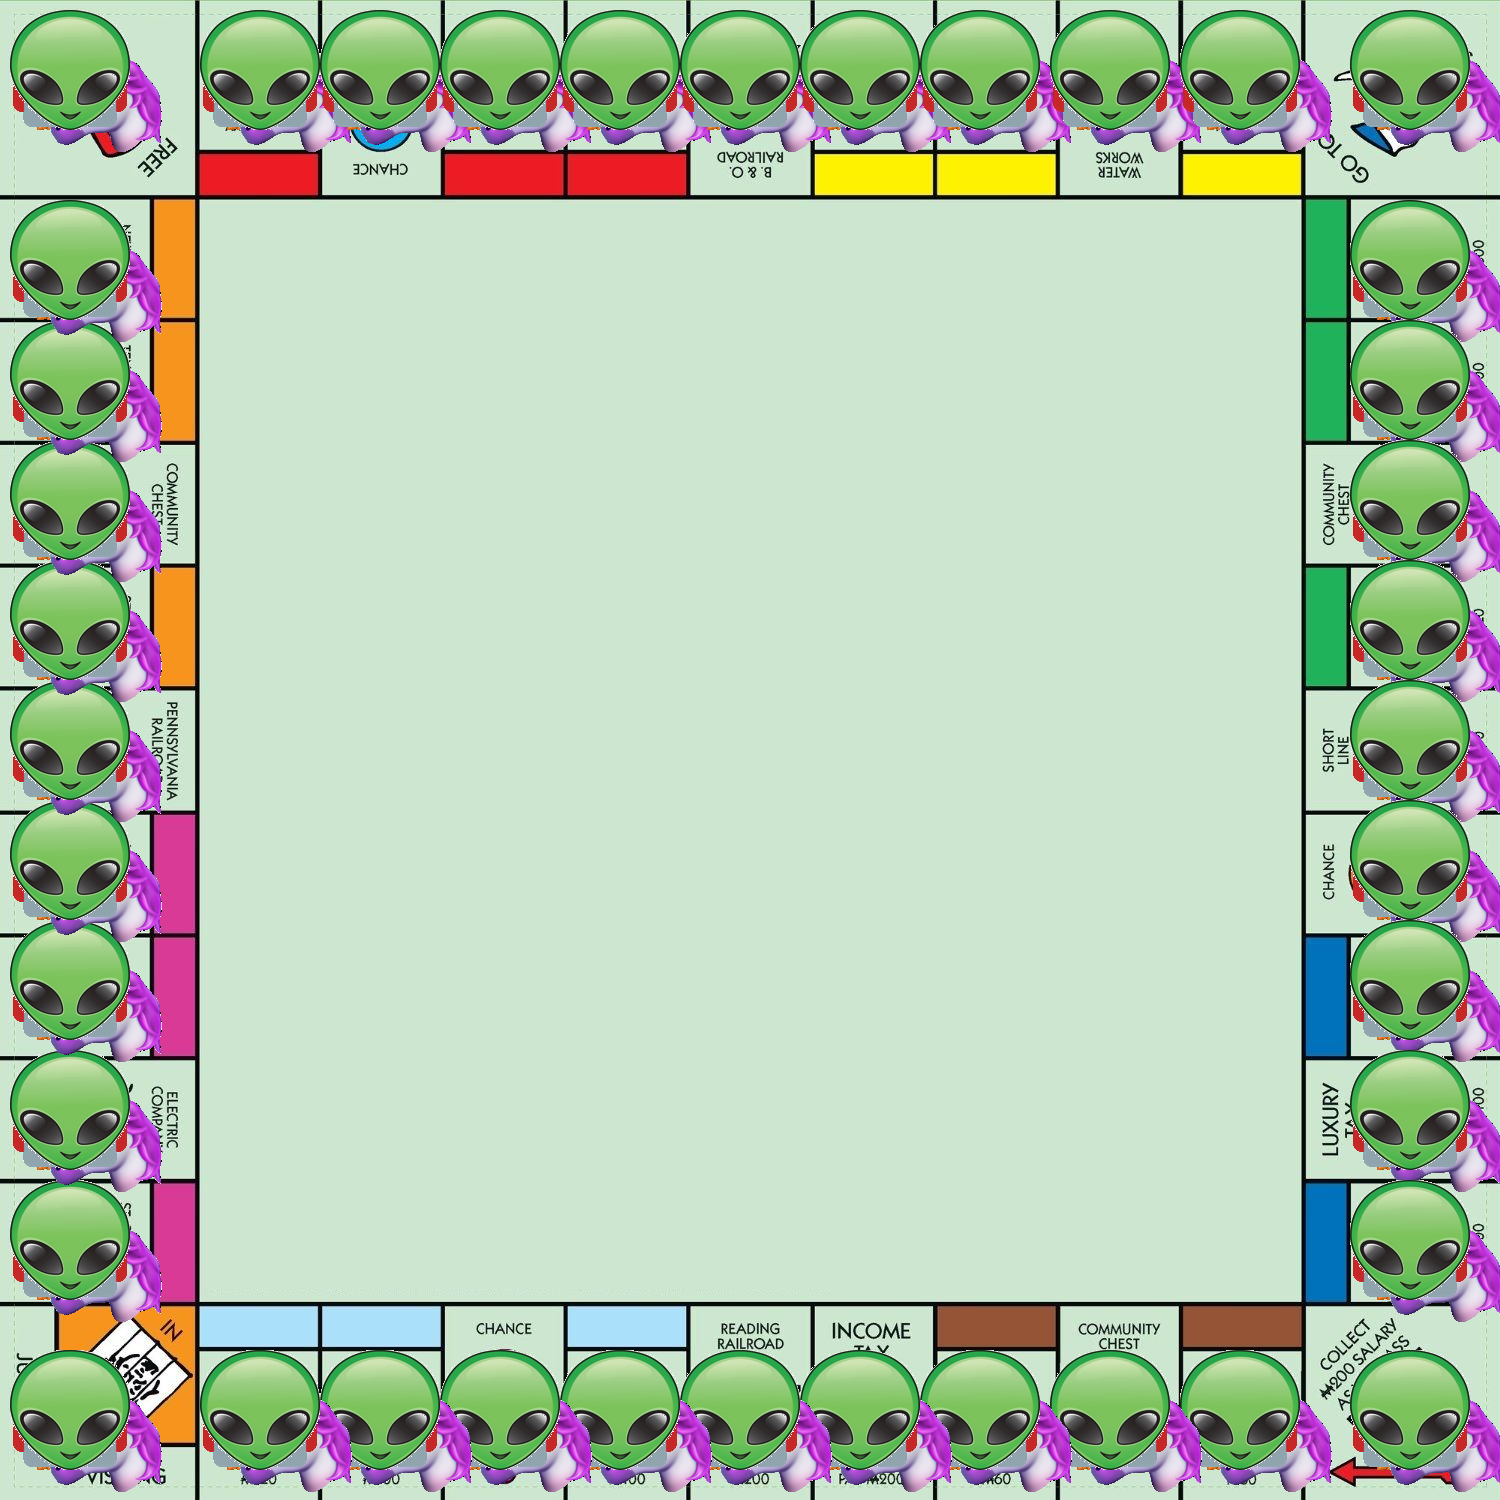
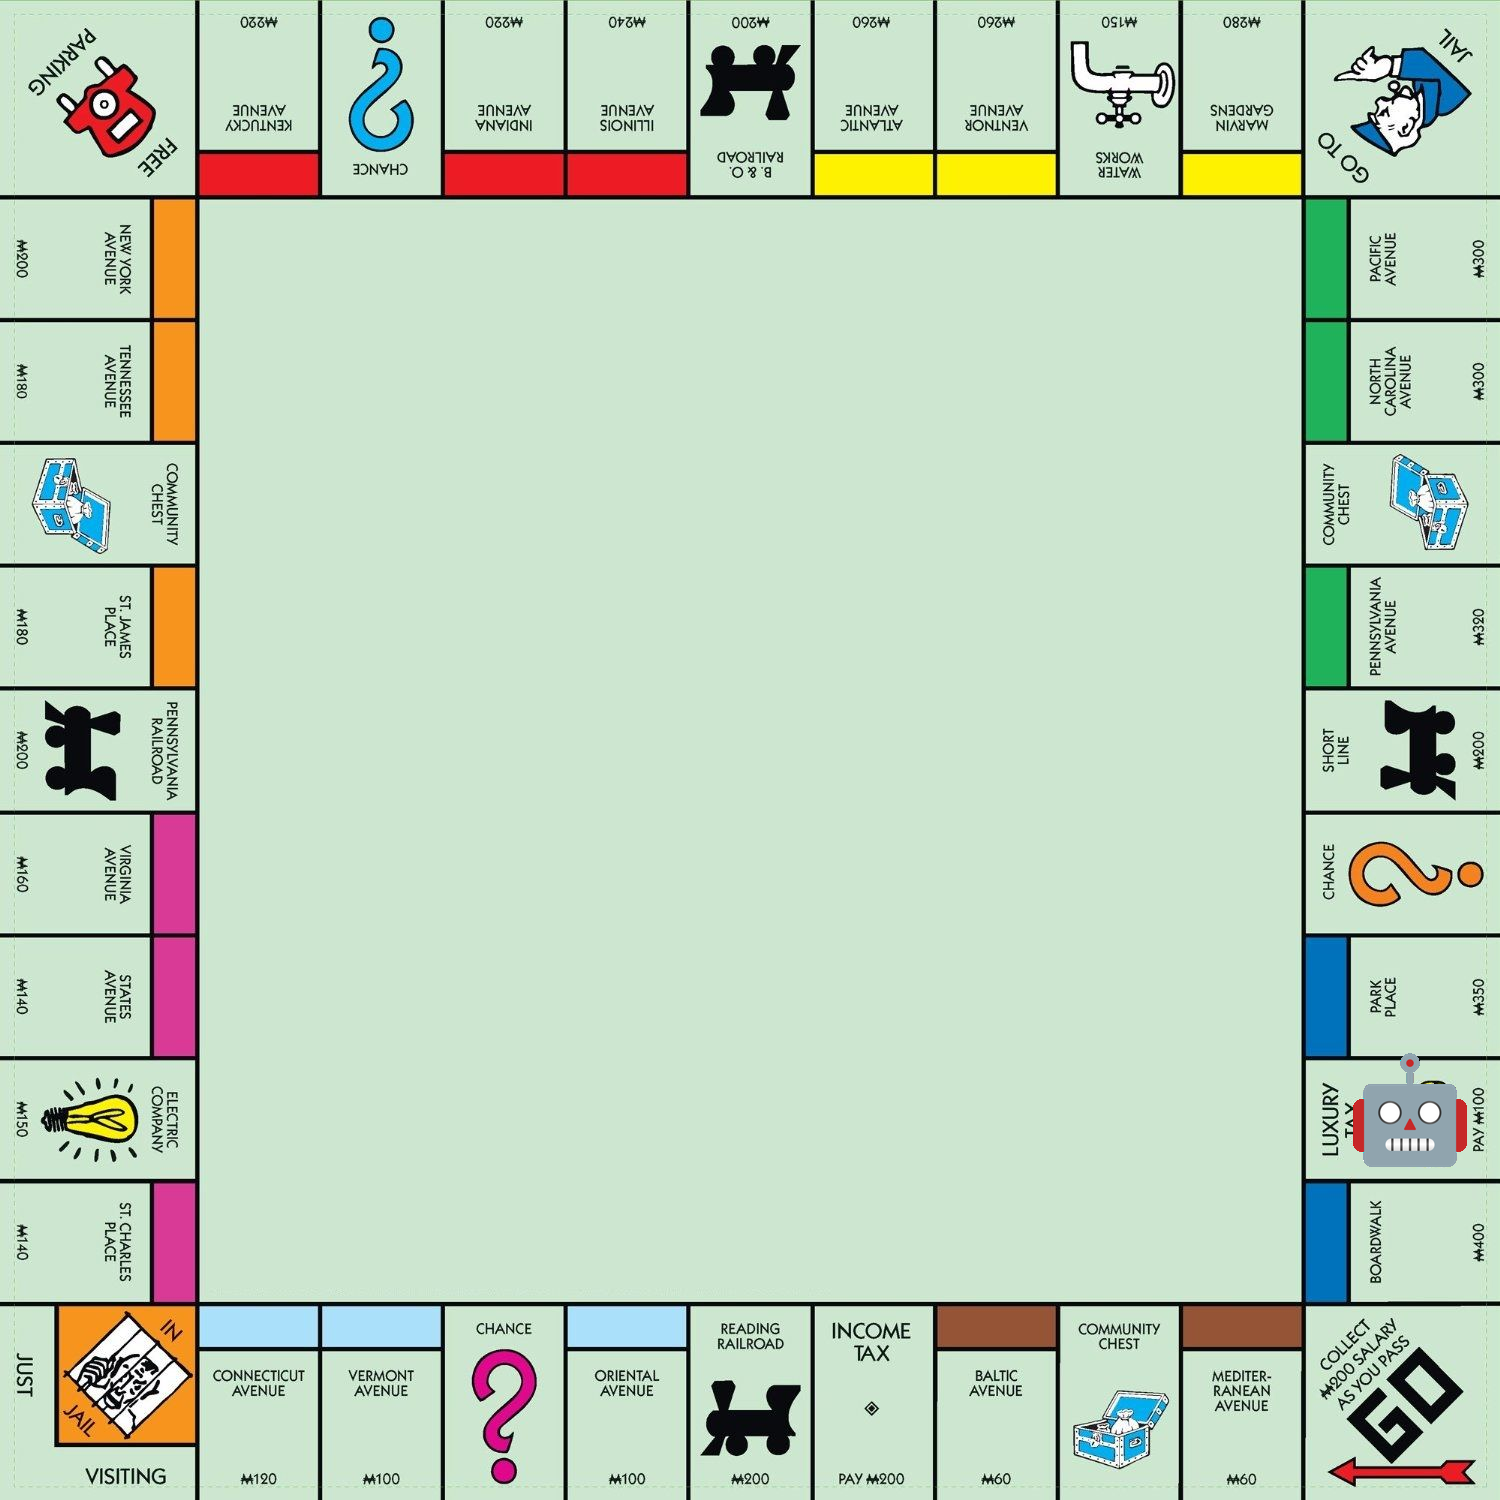
Getting there

Changed region(s): [[0.0, 0.0, 1.0, 1.0]]

diff --git a/imager.py b/imager.py
@@ -12,52 +12,65 @@ positions = [(1350,1350), (1180,1350), (1050,1350), (920,1350), (800, 1350), (68
 ]
 
 class Imager:
-    def __init__(self, num_players, names, symbols) -> None:
+    def __init__(self) -> None:
         
-        peng = Image.open('images/penguin.webp', 'r')
-        peng = peng.resize((120,120))
-        pe = np.array(peng)
+        self.peng = Image.open('images/penguin.webp', 'r')
+        self.peng = self.peng.resize((120,120))
+        pe = np.array(self.peng)
         redp = np.all(pe==[0,0,0,0], axis=-1)
 
-        unicorn = Image.open('images/unicorn.png', 'r')
-        unicorn = unicorn.resize((180,180))
-        uni = np.array(unicorn)
+        self.unicorn = Image.open('images/unicorn.png', 'r')
+        selfunicorn = self.unicorn.resize((180,180))
+        uni = np.array(self.unicorn)
         redu = np.all(uni==[0,0,0,0], axis=-1)
 
-        robot = Image.open('images/robot.png', 'r')
-        robot = robot.resize((120,120))
-        ro = np.array(robot)
+        self.robot = Image.open('images/robot.png', 'r')
+        self.robot = self.robot.resize((120,120))
+        ro = np.array(self.robot)
         redr = np.all(ro==[0,0,0,0], axis=-1)
 
-        alien = Image.open('images/alien.jpg', 'r')
-        alien = alien.resize((120,120))
-        al = np.array(alien)
+        self.alien = Image.open('images/alien.jpg', 'r')
+        self.alien = self.alien.resize((120,120))
+        al = np.array(self.alien)
         reda = np.all(al==[255,255,255], axis=-1)
 
 
         # for i in range(num_players):
         #     self.players
         # Convert reds back into PIL Image to use as alpha mask
-        pen_alpha = Image.fromarray(~redp)
-        uni_alpha = Image.fromarray(~redu)
-        rob_alpha = Image.fromarray(~redr)
-        trex_alpha = Image.fromarray(~reda)
+        self.pen_alpha = Image.fromarray(~redp)
+        self.uni_alpha = Image.fromarray(~redu)
+        self.rob_alpha = Image.fromarray(~redr)
+        self.trex_alpha = Image.fromarray(~reda)
 
         # Paste "rm" over "formation" with alpha as transparency mask
 
-        background = Image.open('images/monopoly.jpg', 'r')
+        
 
 
-        background.paste(peng, positions[0], pen_alpha)
-        background.paste(unicorn, positions[4], uni_alpha)
-        background.paste(robot, positions[8], rob_alpha)
-        background.paste(alien, positions[18], trex_alpha)
+        # background.paste(peng, positions[0], pen_alpha)
+        # background.paste(unicorn, positions[4], uni_alpha)
+        # background.paste(robot, positions[8], rob_alpha)
+        # background.paste(alien, positions[18], trex_alpha)
 
         # background.show()
         # background.save('out.png')
     
-    def creatBoard(self, symbols, pos):
-        for i in range(len(symbols)):
-            self.createPlayer(symbols[i], pos[i])
+    def creatBoard(self, players):
+        background = Image.open('images/monopoly.jpg', 'r')
+        # print(players[0].symbol)
+        for i in players:
+            if i.symbol == 'penguin':
+                background.paste(self.peng, positions[i.location], self.pen_alpha)
+            elif i.symbol == 'unicorn':
+                background.paste(self.unicorn, positions[i.location], self.uni_alpha)
+            elif i.symbol == 'robot':
+                background.paste(self.robot, positions[i.location], self.rob_alpha)
+            elif i.symbol == 'alien':
+                background.paste(self.alien, positions[i.location], self.trex_alpha)
+            
+            background.save('images/out.png')
+
+        
 
 # imager = Imager(3, [], [])

diff --git a/bot.py b/bot.py
@@ -79,12 +79,14 @@ async def start(ctx):
 @client.command(pass_context=True)
 async def turn(ctx):
     username = ctx.message.author.name
-    if(username != monopoly.players[monopoly.turn-1].name):
-        await ctx.send(f"It's {monopoly.players[monopoly.turn].name}'s turn")
-        return None
-    await ctx.send(file=discord.File('images/out.png'))
-    await ctx.send(monopoly.doTurn()[0])
+
+    # print(monopoly.turn)
+    # if(username != monopoly.players[].name):
+    #     await ctx.send(f"It's {monopoly.players[monopoly.turn].name}'s turn")
+    #     return None
     
+    await ctx.send(monopoly.doTurn()[0])
+    await ctx.send(file=discord.File('images/out.png'))
     
 # @client.command()
 # async def epic(ctx):

diff --git a/monopoly.py b/monopoly.py
@@ -19,17 +19,19 @@ class Monopoly():
         
         roll = self.rollDie()
 
-        if self.turn == self.numPlayers:
+        if self.turn == self.numPlayers -1:
             self.turn = 0
         else:
             self.turn +=1
 
+        print(t,"\n\n\n\n")
         self.players[t].move(roll)
         loc = self.players[t].location
         if loc >= 40:
             self.players[t].location = loc - 40
             loc -= 40
 
+        self.board.createBoard(self.players)
         outString = f"It's player {self.players[t].name}'s turn and they roll a {roll}! They landed on {self.board.getLocation(loc)['name']}"
         return [outString, self.board.getLocation(loc)]
     

diff --git a/player.py b/player.py
@@ -120,5 +120,5 @@ class Player:
         return True
     
     def playerInfo(self):
-        return f"{self.name} with the symbol of {self.symbol} is at {self.cards[0]['name']} and has ${self.money}"
+        return f"{self.name} with the symbol of {self.symbol} is at {self.cards[self.location]['name']} and has ${self.money}"
     

diff --git a/board.py b/board.py
@@ -9,6 +9,6 @@ class Board:
     def getLocation(self, n):
         return self.cards[n]
     
-    def createBoard(players):
-        imager = Imager(players)
-        imager.createBoard()
+    def createBoard(self, players):
+        imager = Imager()
+        imager.creatBoard(players)
